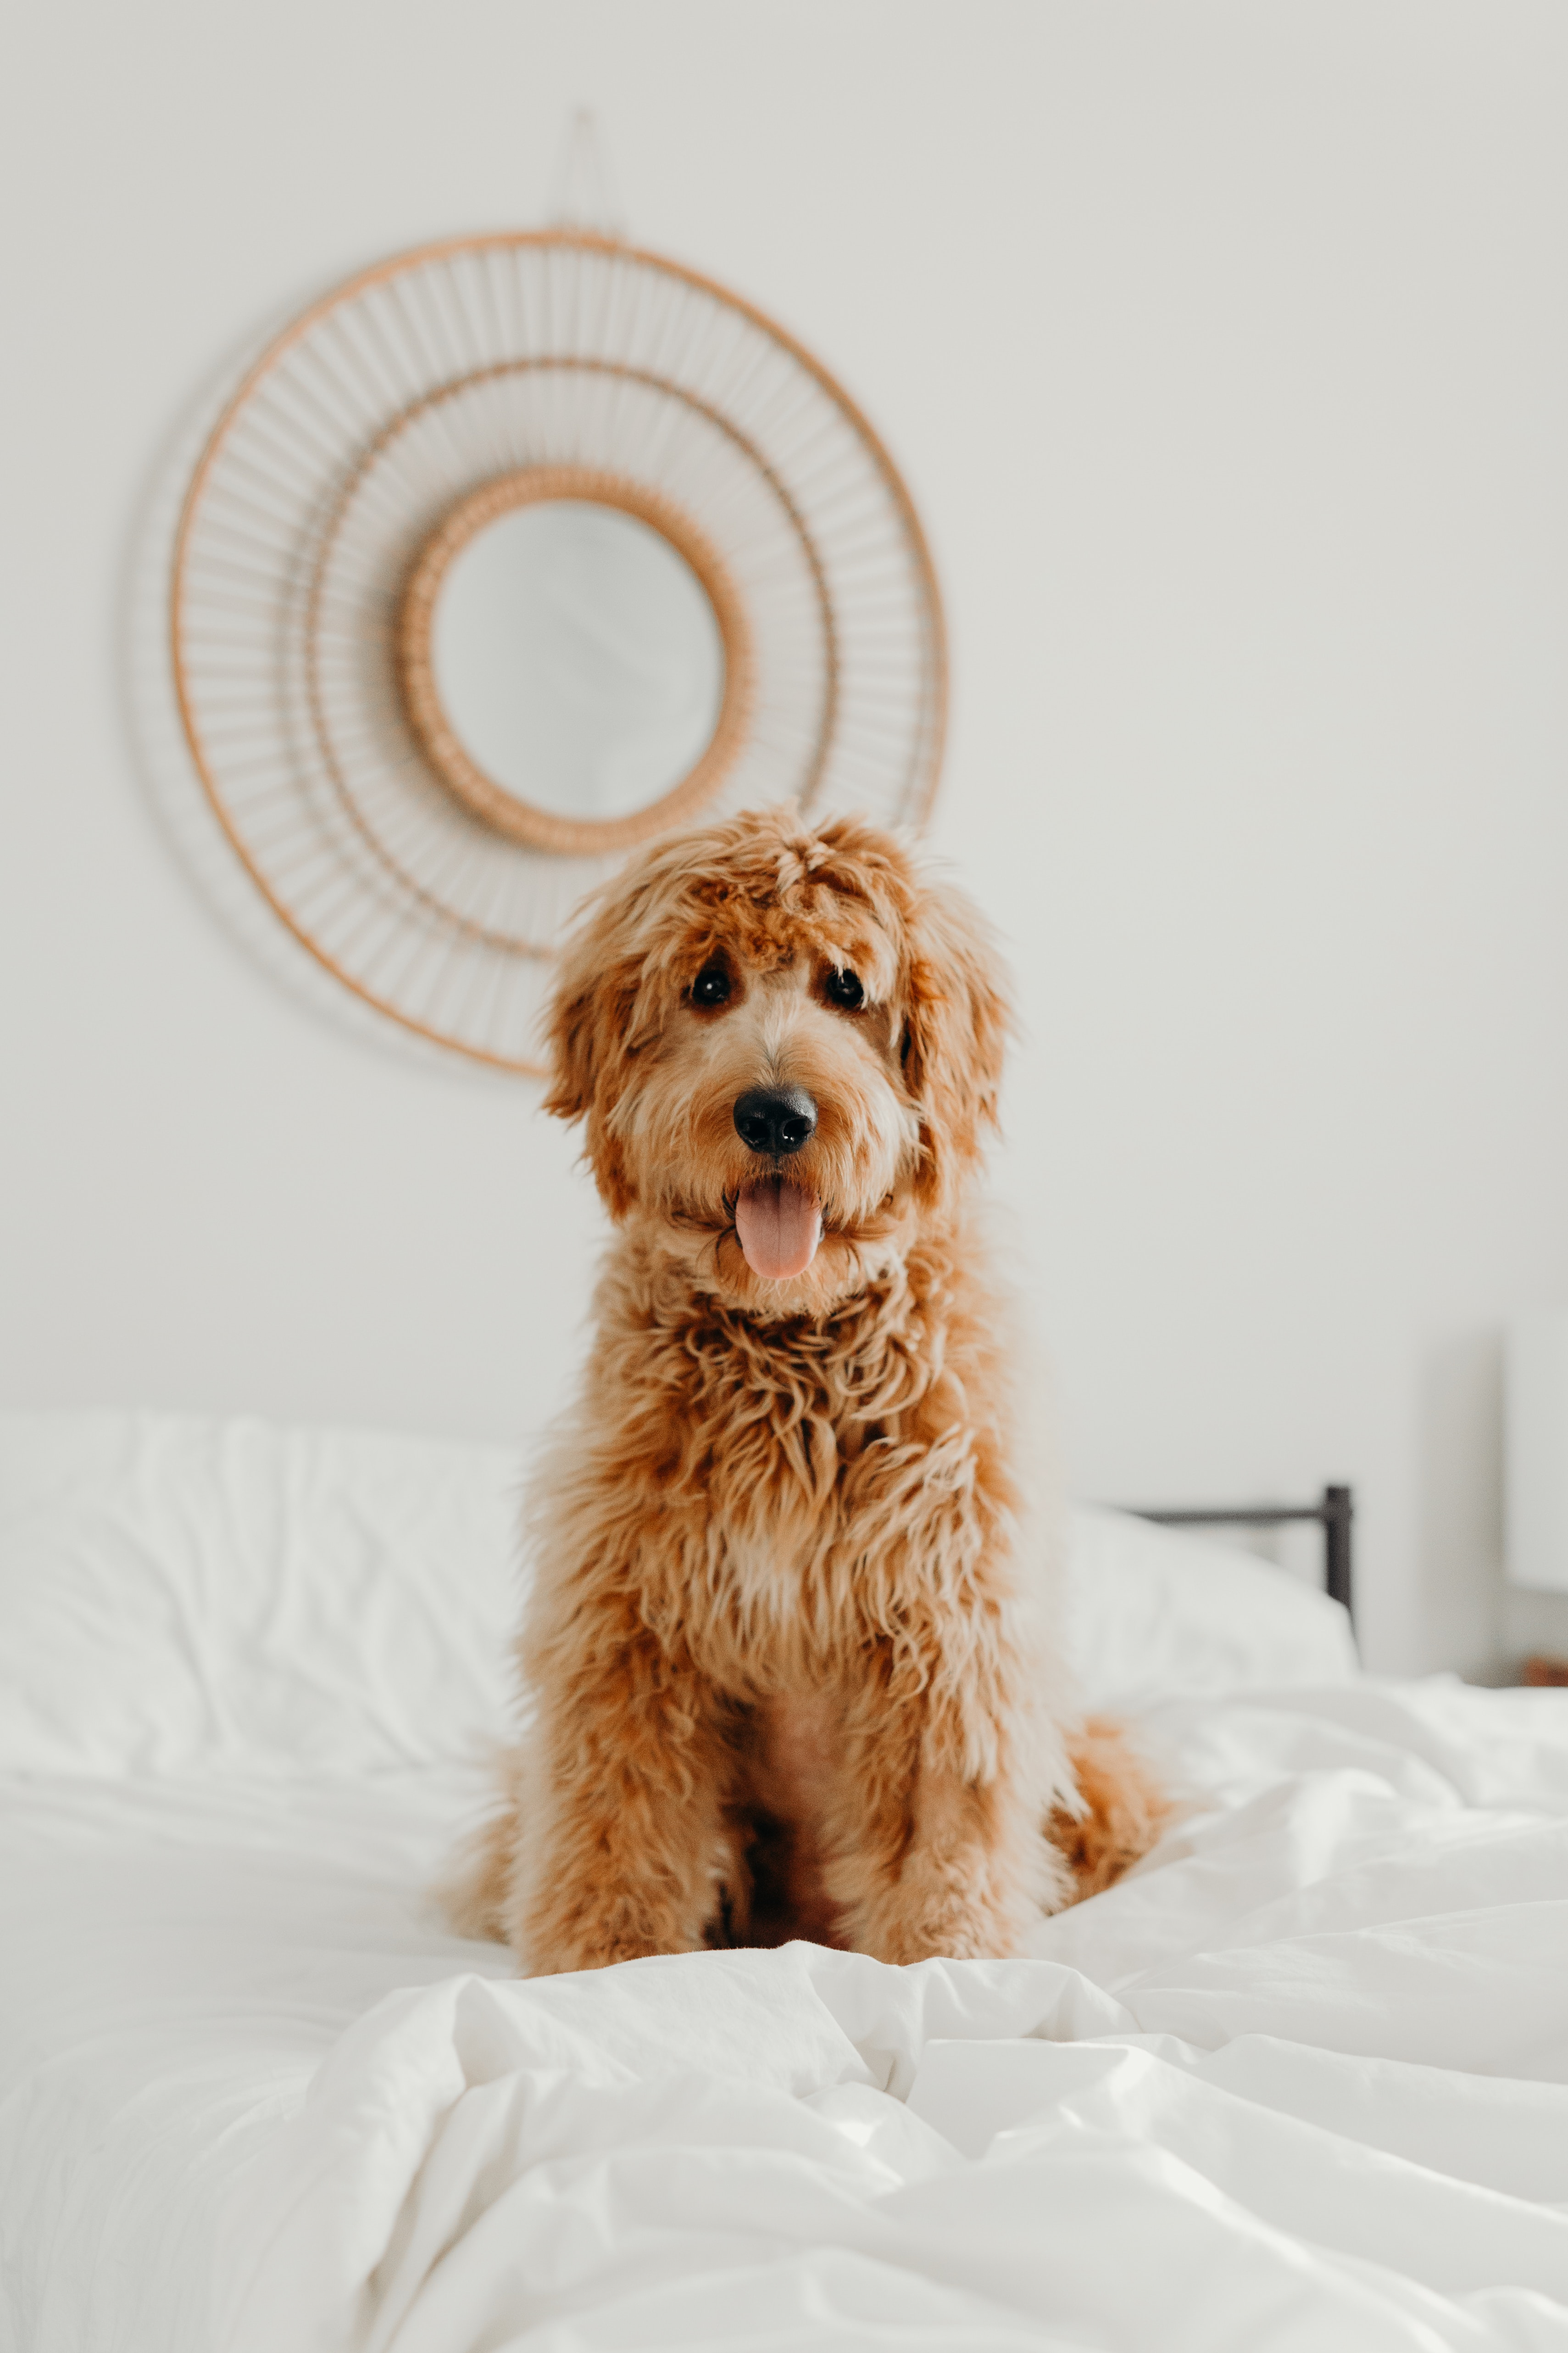
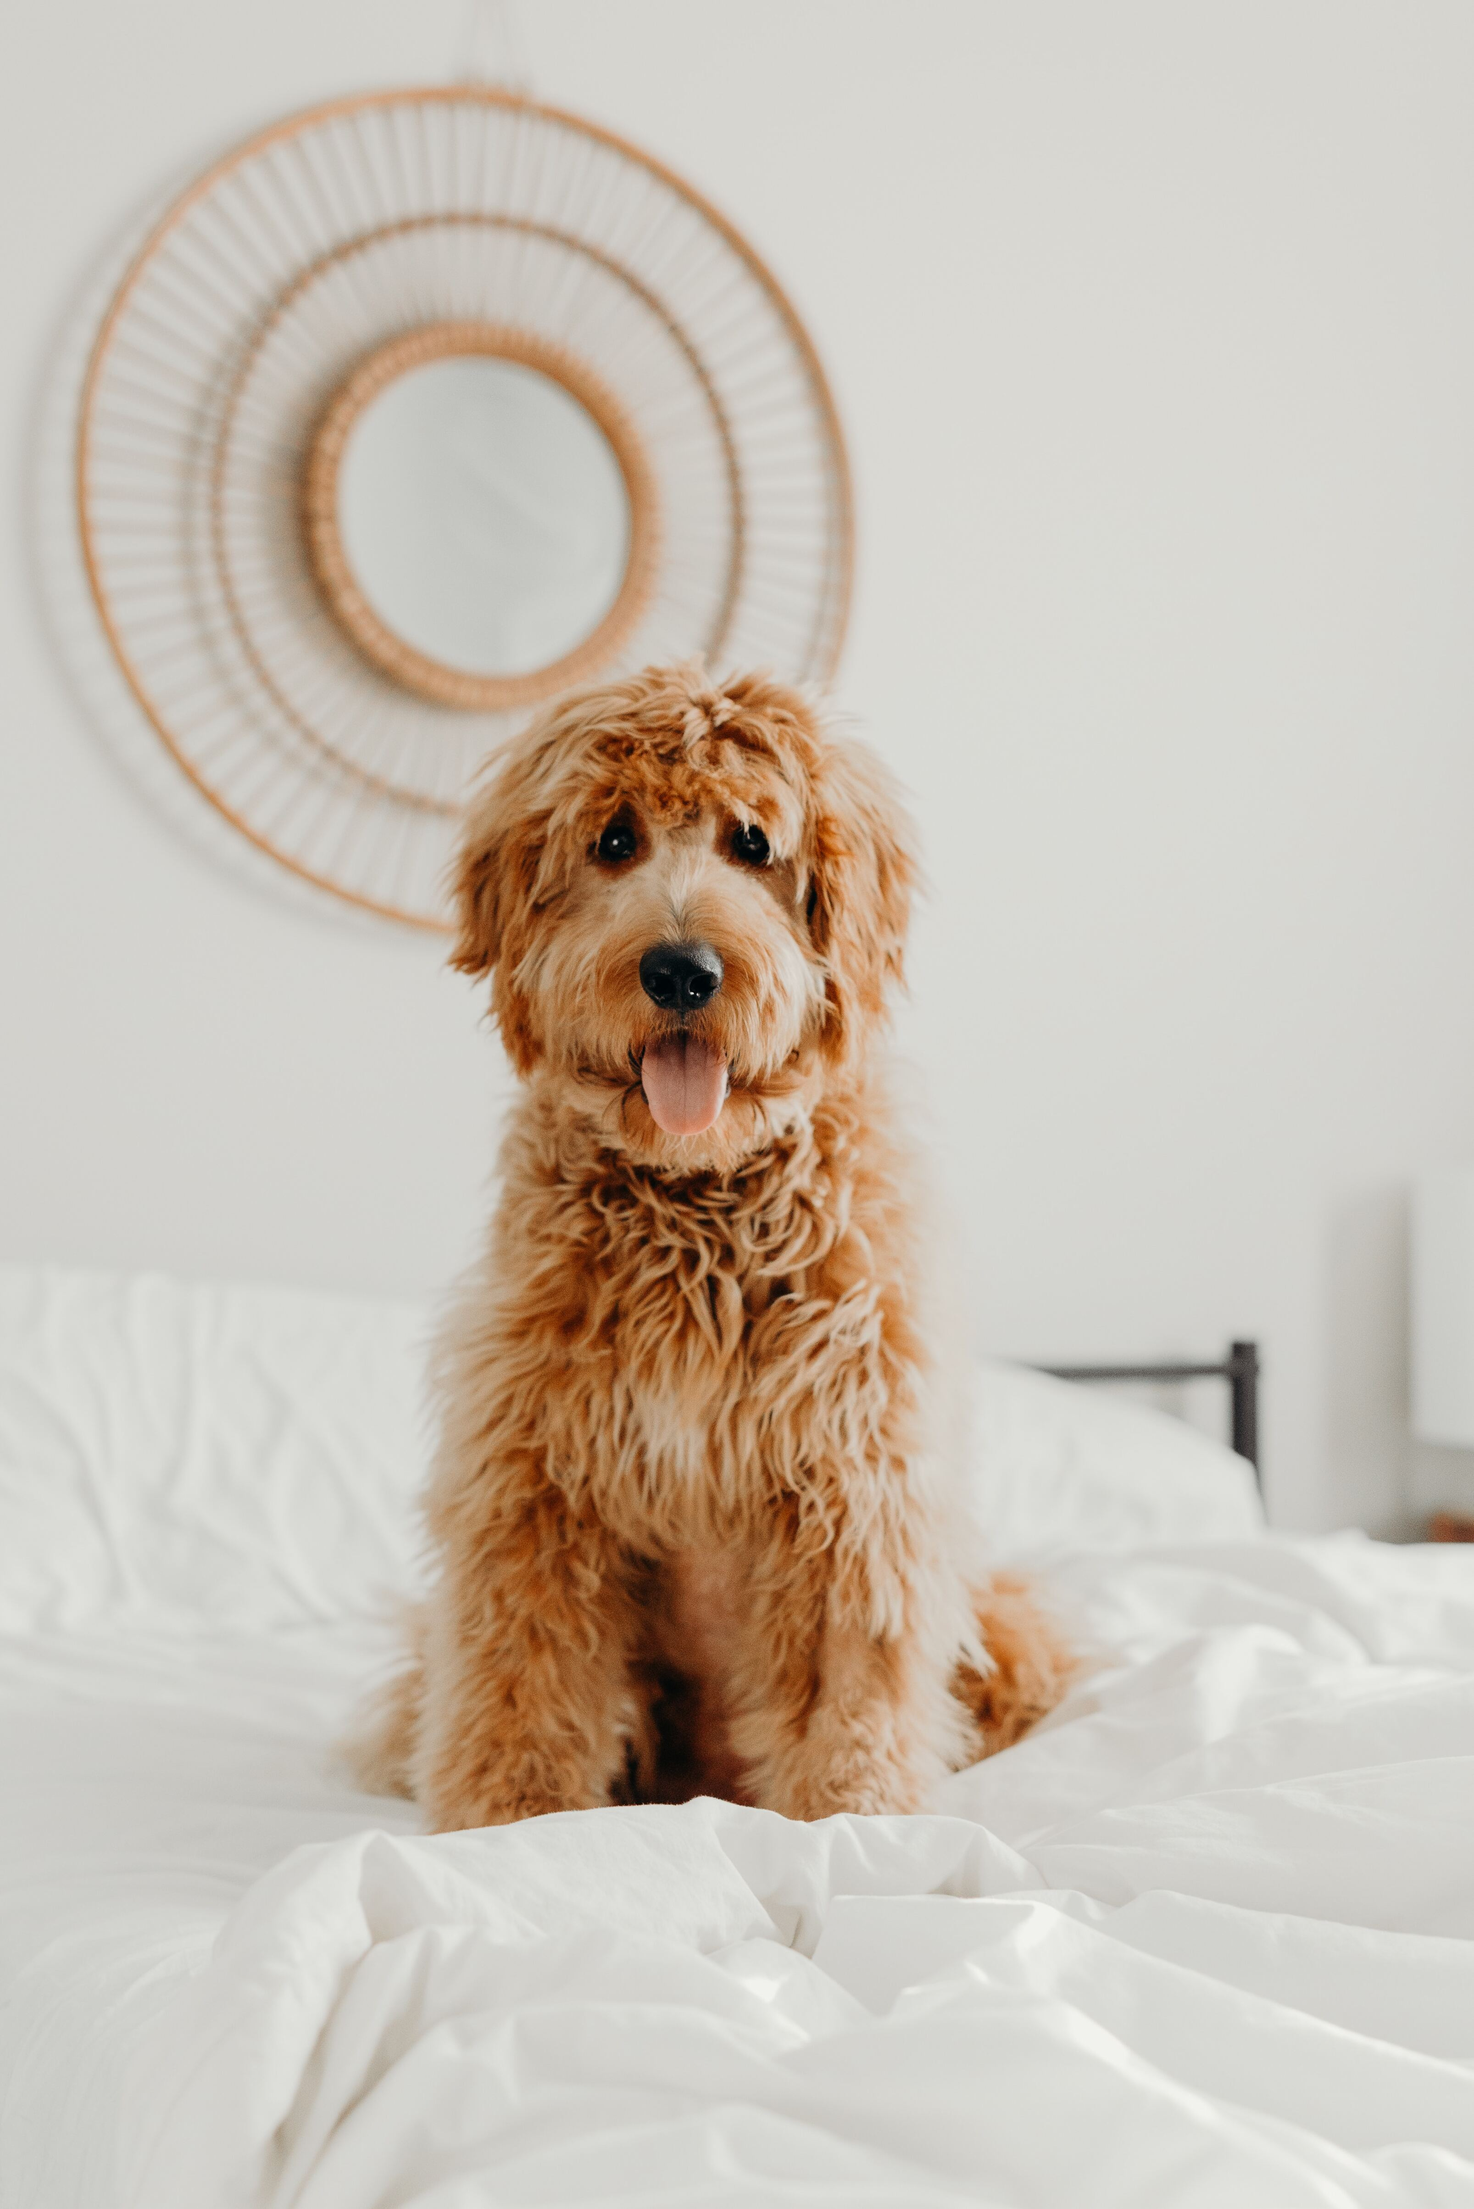
adding delete function, resizing images, popup positioning

diff --git a/src/components/Messages.jsx b/src/components/Messages.jsx
@@ -1,25 +1,51 @@
-import { useState } from "react";
+import { useEffect, useState } from "react";
 import { inbox } from "../data";
-export default function Messages({ setMessages, messages, deleteMessage }) {
-  console.log(messages);
+export default function Messages({ setMessages, messages }) {
+  const [messagesLoaded, setMessagesLoaded] = useState(false);
+  useEffect(() => {
+    setInboxData(inbox);
+  }, []);
+
+  useEffect(() => {
+    const savedSentMessages = JSON.parse(localStorage.getItem("sentMessage"));
+    if (savedSentMessages) {
+      setMessages(savedSentMessages);
+      console.log("useEffectben", messages);
+      setMessagesLoaded(true);
+    }
+  }, []);
+  const [inboxData, setInboxData] = useState();
+
   function handleClearSentFromLocal() {
     localStorage.removeItem("sentMessage");
     setMessages([]);
   }
-  const inboxMessageEl = inbox.map((mes) => (
-    <>
-      <div className="message-container">
-        <div
-          className="message-avatar"
-          style={{ backgroundImage: `url(${mes.img})` }}
-        ></div>
-        <div className="message-content">
-          <h4>From: {mes.from}</h4>
-          <p>{mes.text}</p>
-        </div>
-      </div>
-    </>
-  ));
+
+  function handleClearInbox() {
+    setInboxData([]);
+  }
+
+  function deleteMessage(array, id) {
+    const updatedMessages = array.filter((message) => message.id !== id);
+    localStorage.setItem("sentMessage", JSON.stringify(updatedMessages));
+    setMessages(updatedMessages);
+  }
+  const inboxMessageEl = inboxData
+    ? inboxData.map((mes) => (
+        <>
+          <div className="message-container">
+            <div
+              className="message-avatar"
+              style={{ backgroundImage: `url(${mes.img})` }}
+            ></div>
+            <div className="message-content">
+              <h4>From: {mes.from}</h4>
+              <p>{mes.text}</p>
+            </div>
+          </div>
+        </>
+      ))
+    : null;
 
   const sentMessageEl = messages.map((mes) => (
     <>
@@ -32,24 +58,44 @@ export default function Messages({ setMessages, messages, deleteMessage }) {
           <h4>To:{mes.to}</h4>
           <p>{mes.text}</p>
         </div>
-        <button onClick={() => deleteMessage(messages, mes)}>x</button>
+        <button onClick={() => deleteMessage(messages, mes.id)}>x</button>
       </div>
     </>
   ));
   return (
     <div className="mail-container">
-      <h3>Inbox</h3>
+      <div className="messages-header">
+        <h3>Inbox</h3>
+        <button onClick={handleClearInbox} className="clear-btn">
+          Clear inbox
+        </button>
+      </div>
+
       <div className="message-element">{inboxMessageEl}</div>
-      <button className="clear-btn">Clear inbox</button>
-      <h3>Sent</h3>
+
+      <div className="messages-header">
+        {" "}
+        <h3>Sent</h3>
+        <button onClick={handleClearSentFromLocal} className="clear-btn">
+          Clear sent messages
+        </button>
+      </div>
+      {/* {messagesLoaded ? (
+        messages.length > 0 ? (
+          <div className="message-element">{sentMessageEl}</div>
+        ) : (
+          <p className="no-sent">No messages.</p>
+        )
+      ) : (
+        <p>Loading messages...</p>
+      )} */}
       {messages.length == 0 ? (
         <p className="no-sent">No messages.</p>
-      ) : (
+      ) : messagesLoaded && messages.length > 0 ? (
         <div className="message-element">{sentMessageEl}</div>
+      ) : (
+        <p>Loading...</p>
       )}
-      <button onClick={handleClearSentFromLocal} className="clear-btn">
-        Clear sent messages
-      </button>
     </div>
   );
 }

diff --git a/src/App.css b/src/App.css
@@ -1,3 +1,7 @@
+* {
+  box-sizing: border-box;
+}
+
 #root {
   text-align: center;
 }
@@ -148,7 +152,41 @@ footer button {
   margin: 0 auto;
   align-items: center;
   justify-items: center;
+  position: relative;
 }
+.popUp {
+  position: absolute;
+  top: 50%;
+  left: 50%;
+  transform: translate(-50%, -50%);
+  width: 70%;
+  background-color: #eff0f3;
+  border-radius: 18px;
+  padding: 2rem 0.8rem;
+}
+
+.popUp form {
+  width: 100%;
+  margin: 0 auto;
+}
+form > button {
+  display: block;
+  text-align: center;
+  margin: 1em auto 0;
+}
+
+.message-toDog {
+  display: flex;
+  margin: 0 auto;
+  align-items: center;
+  justify-content: center;
+}
+
+textarea {
+  width: 80%;
+  font-family: "Poppins", sans-serif;
+}
+
 .dog-liked > img {
   max-height: 30vh;
   border-radius: 18px;
@@ -199,15 +237,15 @@ footer button {
   box-shadow: rgba(0, 0, 0, 0.35) 0px 5px 15px;
 }
 
-.popUp form {
+/* .popUp form {
   background-color: aquamarine;
   padding: 2em;
-}
+} */
 
-form > textarea {
+/* form > textarea {
   width: 100%;
   height: 100%;
-}
+} */
 
 .main-conainer {
   margin: 0 auto;
@@ -263,6 +301,10 @@ form > textarea {
   padding: 0.2em;
   margin-left: 0.5em;
   text-align: left;
+}
+.messages-header {
+  display: flex;
+  justify-content: space-between;
 }
 .no-sent {
   text-align: left;

diff --git a/src/data.js b/src/data.js
@@ -1,3 +1,5 @@
+import { nanoid } from "nanoid";
+
 const dogs = [
   {
     name: "Rex",
@@ -71,7 +73,8 @@ const dogs = [
     bio: "Active and playful. Let's have fun together!",
     hasBeenSwiped: false,
     hasBeenLiked: false,
-    attribute: "Image by master1305 on Freepik",
+    attribute:
+      "https://unsplash.com/@anderjb?utm_content=creditCopyText&utm_medium=referral&utm_source=unsplash",
     id: 7,
   },
   {
@@ -101,16 +104,19 @@ const inbox = [
     from: "Jani",
     text: "Hi! You are a cat, but I don't mind. Do you like cheese?",
     img: "/images/jamie.jpg",
+    id: nanoid(),
   },
   {
     from: "Rudi",
     text: "Hi! I like your profile picture, wanna grab a coffee?",
     img: "/images/dog-basenji.jpg",
+    id: nanoid(),
   },
   {
     from: "Dodi",
-    text: "Hey! Nice to see you here buddy. WHat's up?",
+    text: "Hey Cili! Nice to see you here buddy. WHat's up?",
     img: "/images/doodle.jpg",
+    id: nanoid(),
   },
 ];
 

diff --git a/src/components/PopUp.jsx b/src/components/PopUp.jsx
@@ -20,16 +20,28 @@ export default function PopUp({
       img: toDog.avatar,
     });
   }
+
+  function closePopUp() {
+    setPopUpOn(false);
+  }
   return (
     <div className="popUp">
-      <form>
+      <div className="message-toDog">
+        <h3>Message to {toDog.name}</h3>
+        <div
+          className="message-avatar"
+          style={{ backgroundImage: `url(${toDog.avatar})`, marginLeft: "1em" }}
+        ></div>
+        <button onClick={closePopUp}>Close</button>
+      </div>
+      <form onSubmit={send}>
         <textarea
           value={messageValue.text}
           onChange={typeMessage}
-          rows={4}
+          rows={10}
           placeholder="Type your message"
         ></textarea>
-        <button onClick={send}>Send</button>
+        <button type="submit">Send</button>
       </form>
     </div>
   );

diff --git a/src/App.jsx b/src/App.jsx
@@ -104,12 +104,10 @@ function App() {
   }
 
   function checkMessages() {
+    console.log("messaages in check messages", messages);
     setMessageOn(true);
   }
-  function deleteMessage(array, message) {
-    setMessages(array.filter((message) => !message));
-    console.log("array", array);
-  }
+
   return (
     <div className="main-container">
       {/* <Profile handleClear={handleClear} myDogs={myDogs} /> */}
@@ -120,11 +118,7 @@ function App() {
         checkMessages={checkMessages}
       />
       {messageOn ? (
-        <Messages
-          setMessages={setMessages}
-          messages={messages}
-          deleteMessage={deleteMessage}
-        />
+        <Messages setMessages={setMessages} messages={messages} />
       ) : currentDog && !profileOn ? (
         <DogCard
           currentDog={currentDog}
